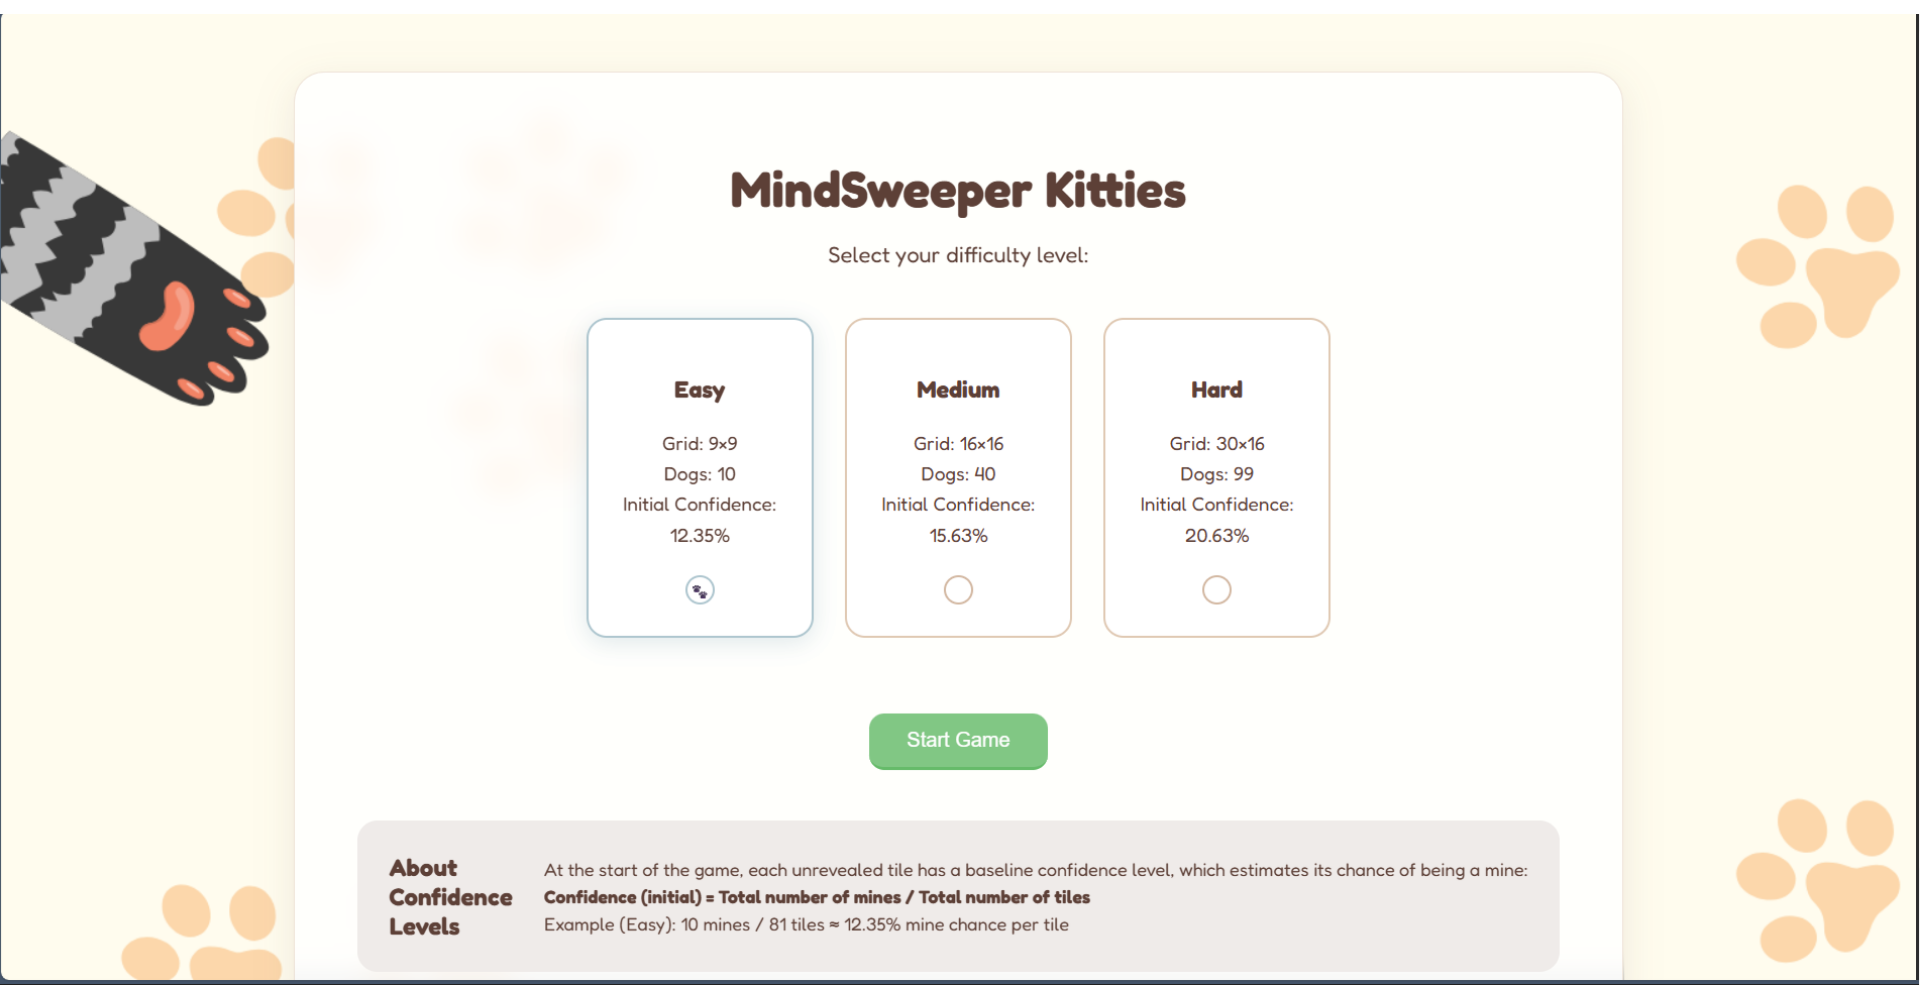
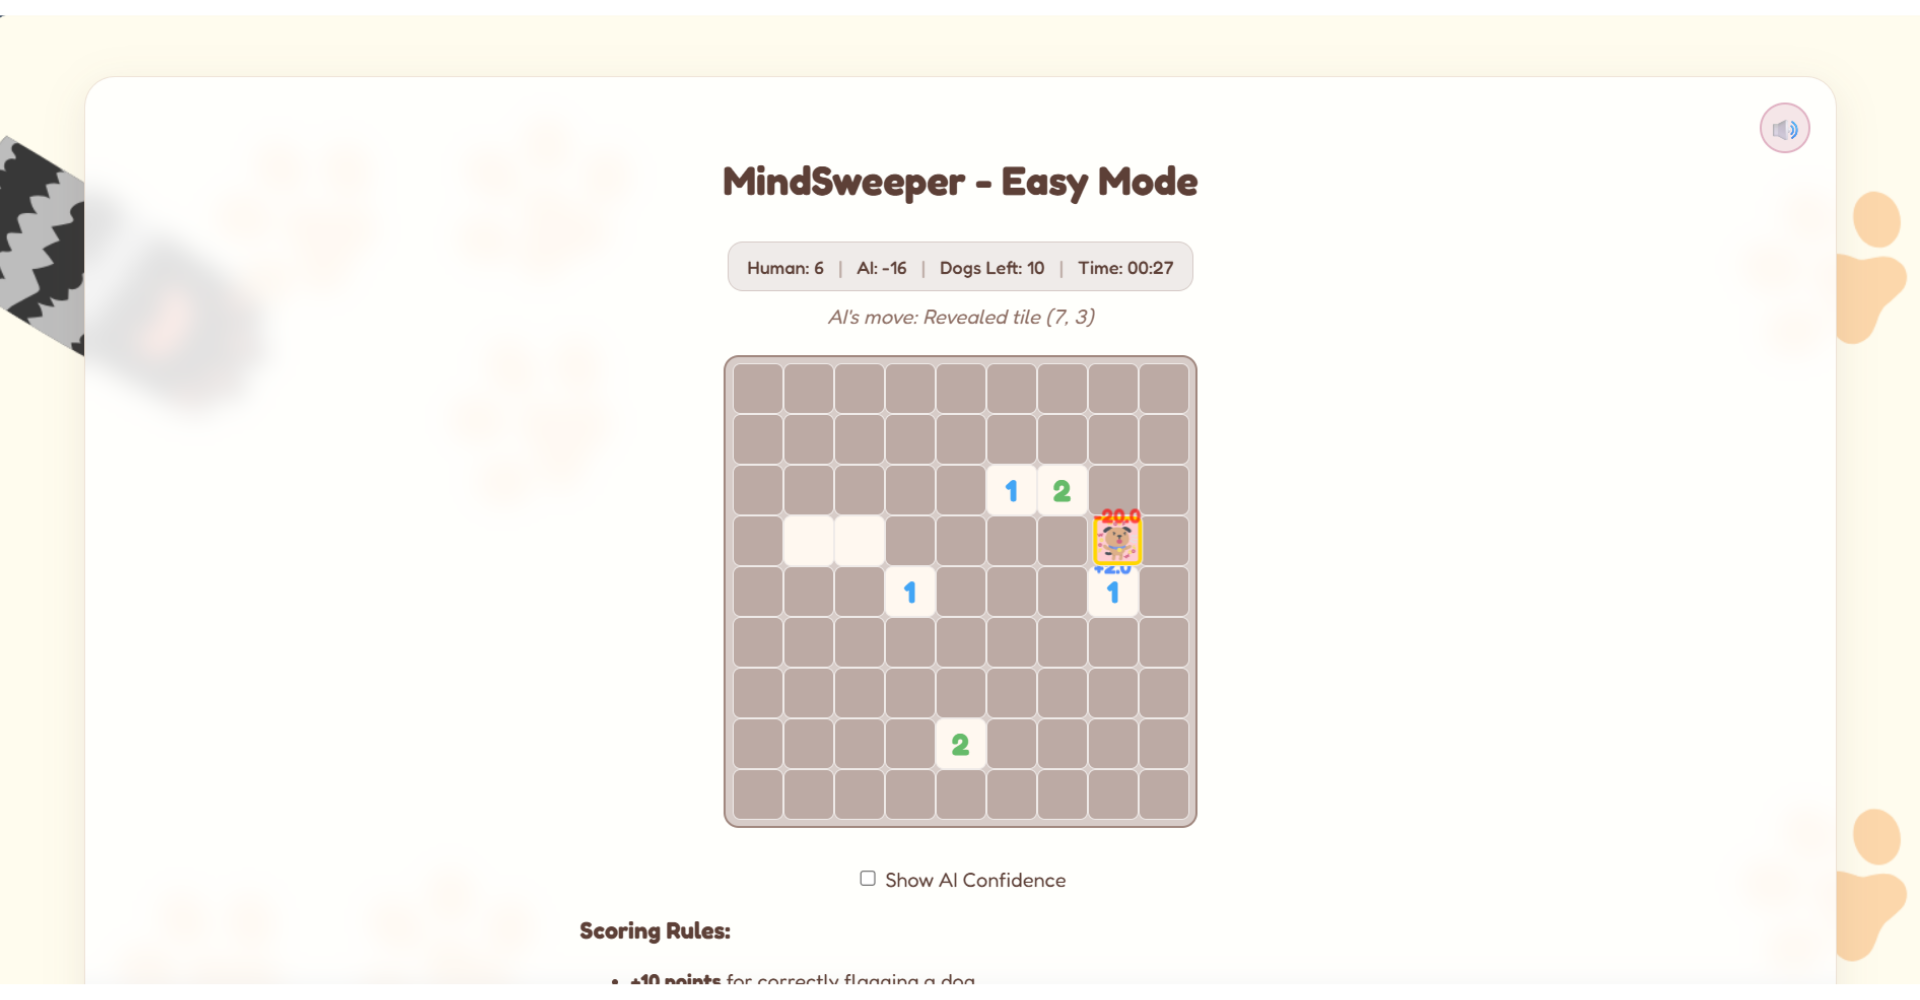
refactor(project): Rename the mindsweeper project and call it to the project list and project details.

diff --git a/app/projects/page.tsx b/app/projects/page.tsx
@@ -25,7 +25,7 @@ export default async function ProjectsPage() {
 					</span>
 				</div>
 				<h1 className="mt-3 font-display text-4xl font-semibold text-accent-primary-deep">
-					Things I&apos;ve Built
+					Things I've Built
 				</h1>
 				<p className="mt-3 max-w-lg text-secondary-text">
 					Some of my projects during my academe.

diff --git a/app/projects/[slug]/page.tsx b/app/projects/[slug]/page.tsx
@@ -43,7 +43,7 @@ export default async function ProjectPage({ params }: ProjectPageProps) {
 			</Link>
 
 			<Image
-				loading="lazy"
+				loading="eager"
 				src={project.image[1]}
 				alt={`Image of the ${project.title} project`}
 				width={960}
